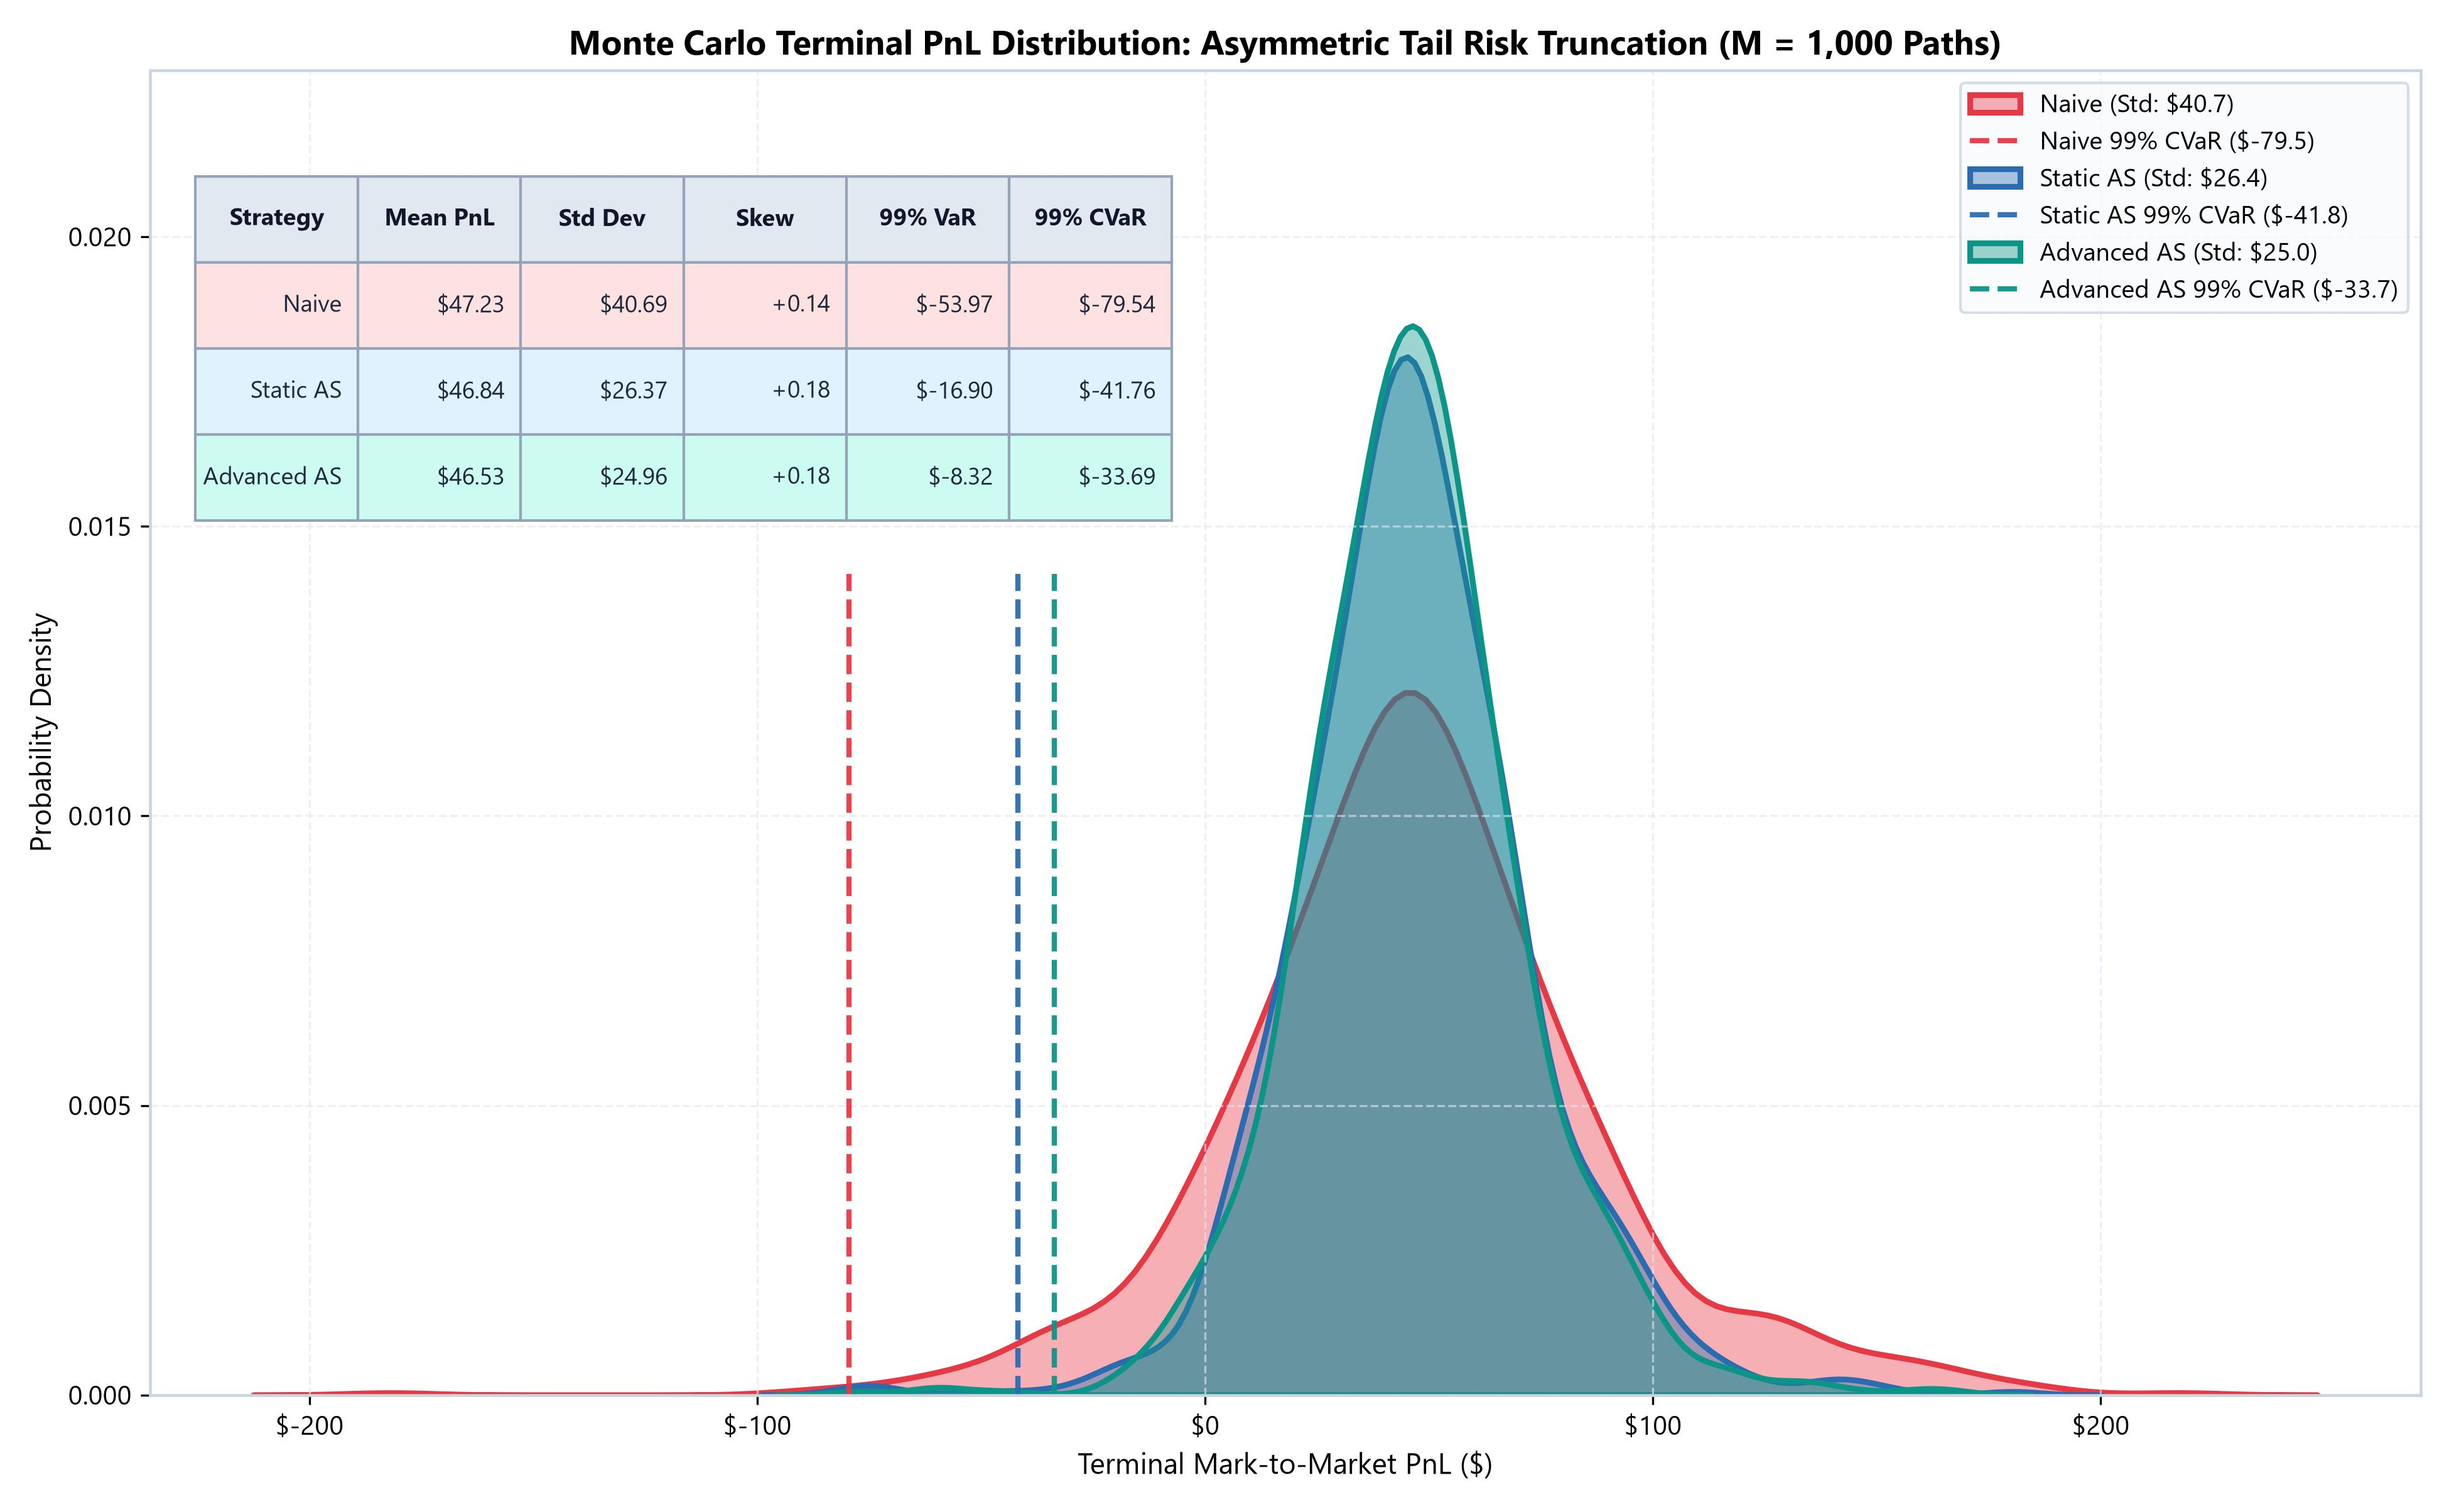
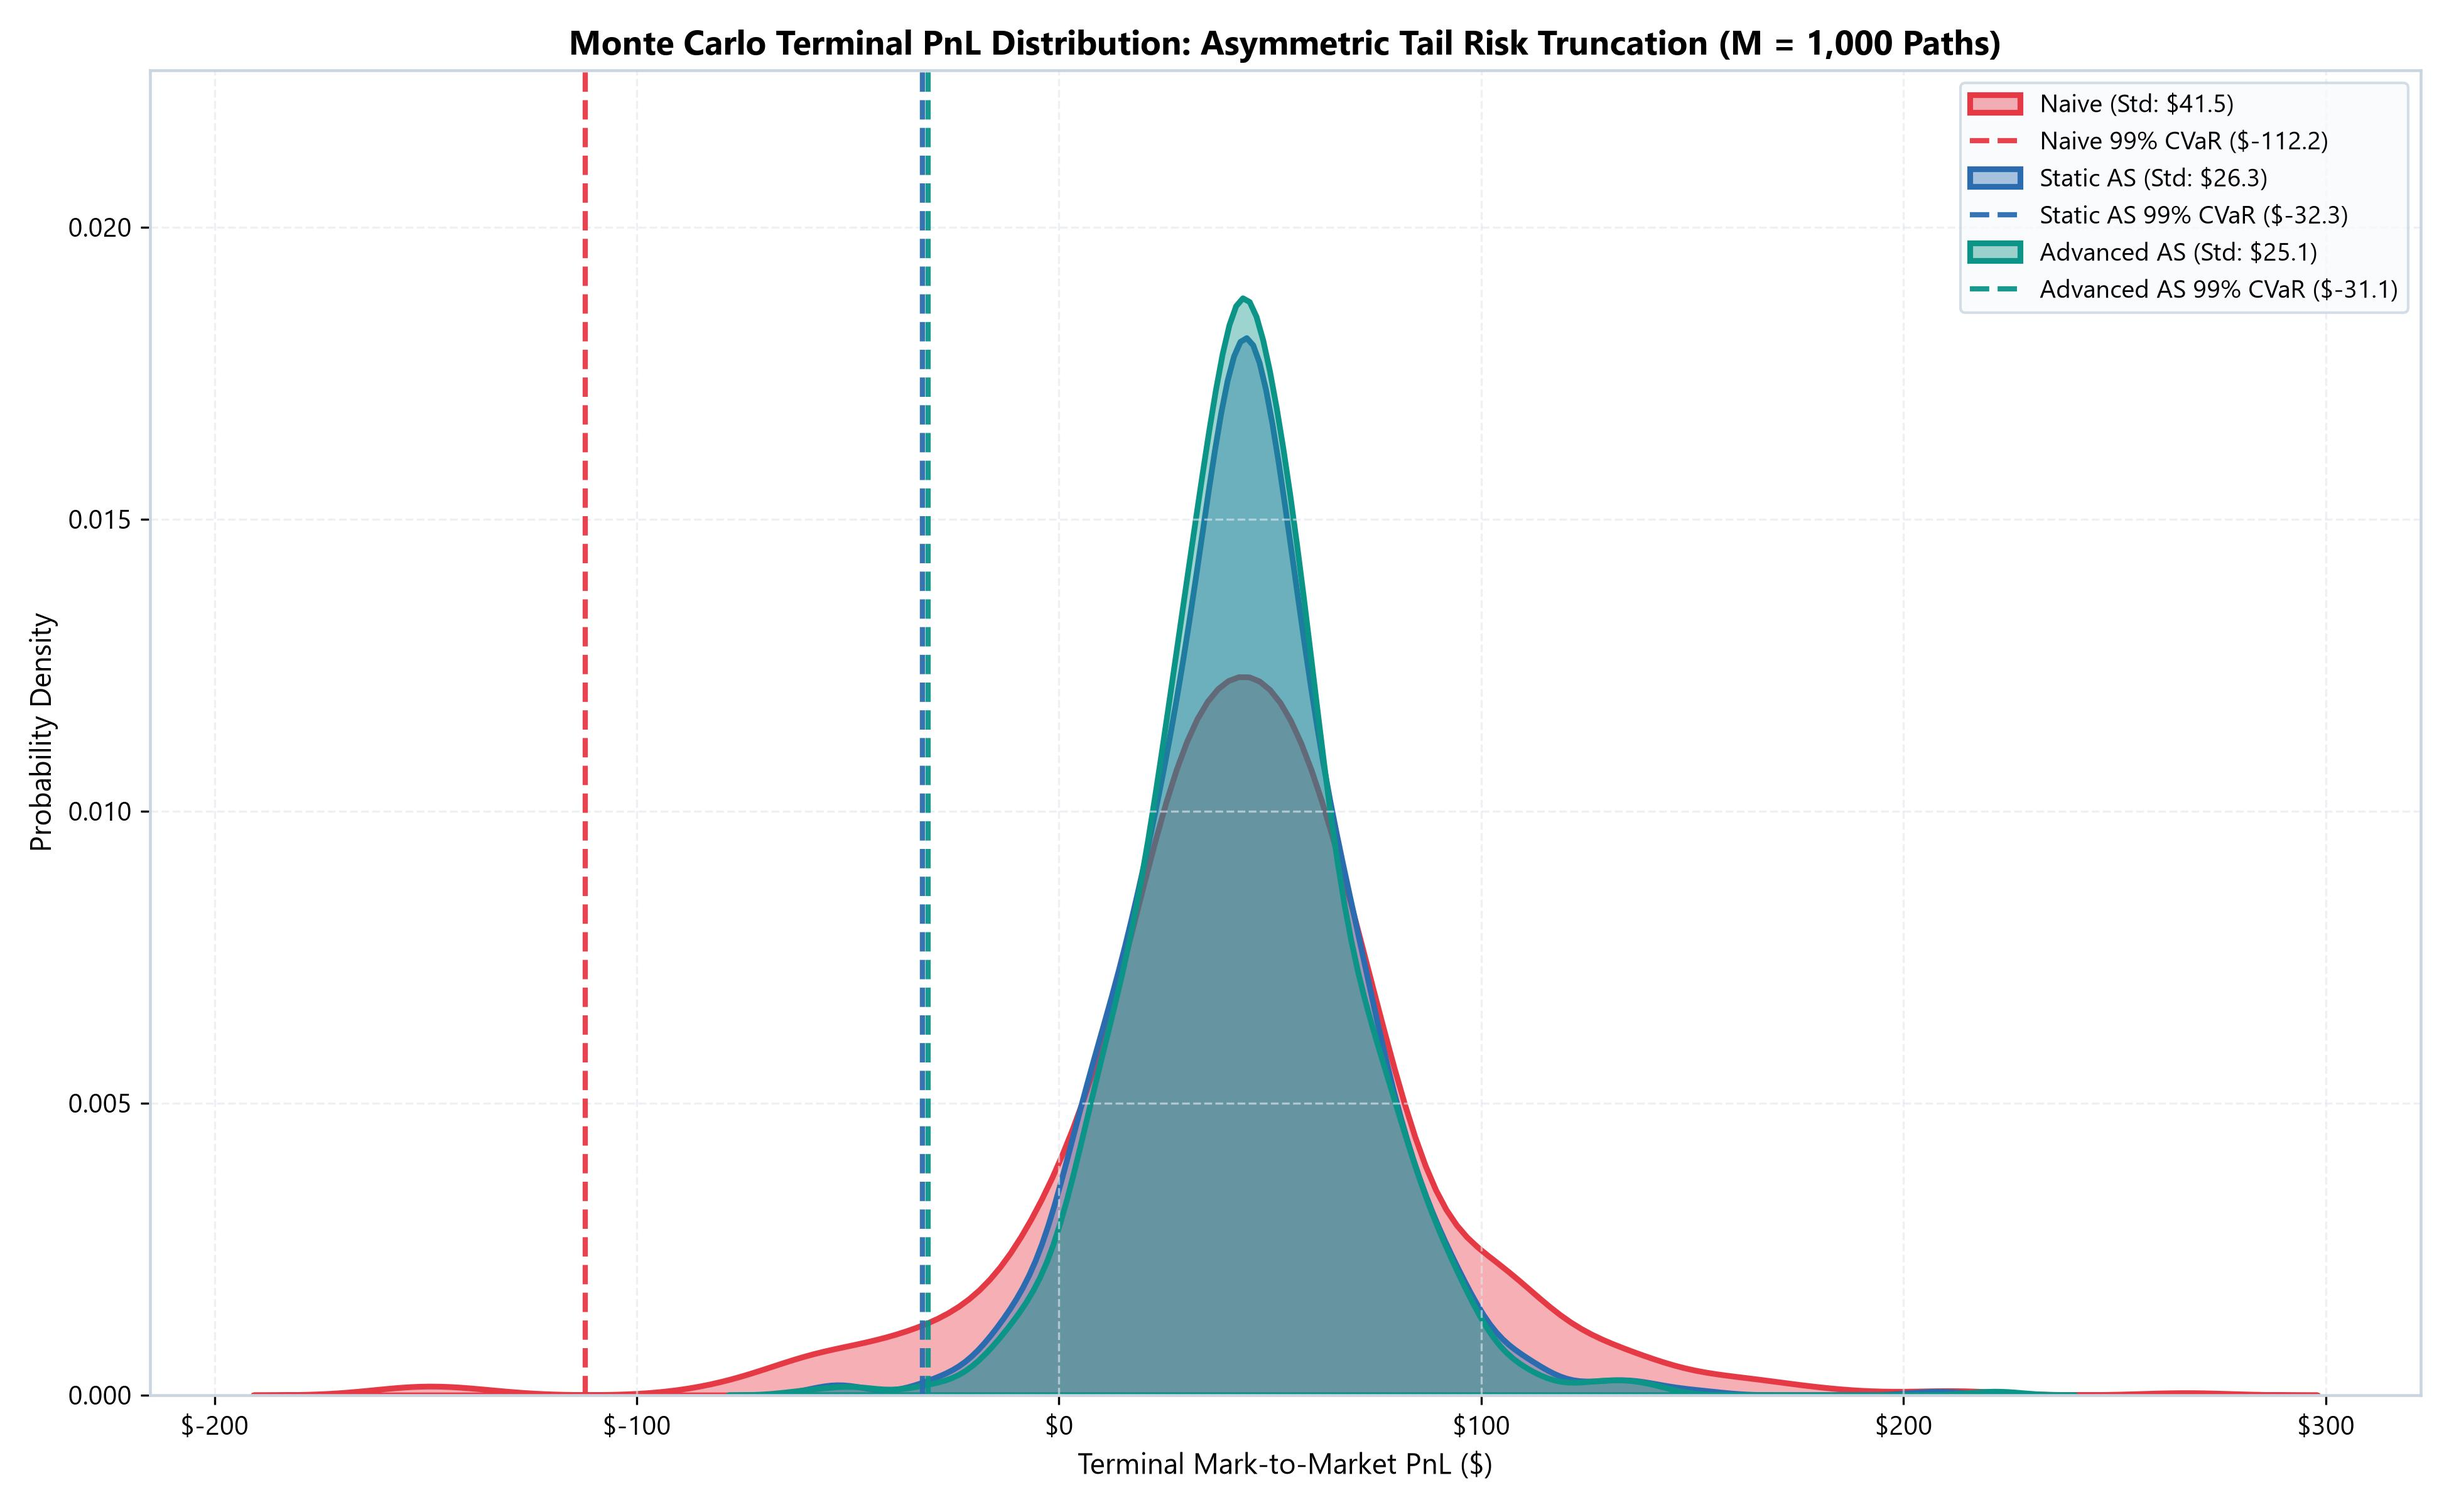
re-update of readme and removal of table in mc-graphic

diff --git a/src/visualization.py b/src/visualization.py
@@ -258,7 +258,6 @@ def plot_monte_carlo_distribution(
     - Kernel Density Estimation (KDE) plot showing distribution of Terminal PnL for Naive, AS Static, Advanced AS.
     - Distinct colors and alpha=0.4 fill area.
     - 99% Conditional VaR (CVaR) vertical lines for the three strategies.
-    - Comprehensive textbox table summarizing Mean PnL, Std Dev, 99% VaR, 99% CVaR.
     """
     os.makedirs(os.path.dirname(save_path), exist_ok=True)
     
@@ -287,12 +286,10 @@ def plot_monte_carlo_distribution(
             label=f"{s_name} (Std: ${mc_results[s_name]['std']:.1f})"
         )
         
-        # 99% CVaR vertical dashed line up to table boundary
+        # 99% CVaR vertical dashed line
         cvar_val = mc_results[s_name]["cvar_99"]
         ax.axvline(
             cvar_val,
-            ymin=0.0,
-            ymax=0.62,
             color=c,
             linestyle="--",
             linewidth=2.0,
@@ -306,55 +303,7 @@ def plot_monte_carlo_distribution(
     ax.grid(True, linestyle="--", alpha=0.6)
     ax.xaxis.set_major_formatter(plt.FuncFormatter(lambda x, loc: f"${x:,.0f}"))
     y_min, y_max = ax.get_ylim()
-    ax.set_ylim(0, y_max * 1.18)
-    
-    # Perfectly formatted risk profile table using ax.table (with Kurtosis column removed and width resized)
-    col_labels = ["Strategy", "Mean PnL", "Std Dev", "Skew", "99% VaR", "99% CVaR"]
-    cell_text = []
-    cell_colors = []
-    
-    row_bg_tints = {
-        "Naive": ["#FEE2E2"] * 6,
-        "Static AS": ["#E0F2FE"] * 6,
-        "Advanced AS": ["#CCFBF1"] * 6
-    }
-    
-    for s_name in strats:
-        st = mc_results[s_name]
-        sign_var = "+" if st['var_99'] > 0 else ""
-        sign_cvar = "+" if st['cvar_99'] > 0 else ""
-        cell_text.append([
-            s_name,
-            f"${st['mean']:,.2f}",
-            f"${st['std']:,.2f}",
-            f"{st.get('skewness', 0.0):+.2f}",
-            f"{sign_var}${st['var_99']:,.2f}",
-            f"{sign_cvar}${st['cvar_99']:,.2f}"
-        ])
-        cell_colors.append(row_bg_tints[s_name])
-        
-    the_table = ax.table(
-        cellText=cell_text,
-        colLabels=col_labels,
-        cellColours=cell_colors,
-        colColours=["#E2E8F0"] * 6,
-        loc="upper left",
-        bbox=[0.02, 0.66, 0.43, 0.26],
-        zorder=10
-    )
-    the_table.auto_set_font_size(False)
-    the_table.set_fontsize(9.0)
-    the_table.set_zorder(10)
-    
-    for (r, c), cell in the_table.get_celld().items():
-        cell.set_edgecolor("#94A3B8")
-        cell.set_linewidth(1.0)
-        cell.set_alpha(1.0)
-        cell.set_zorder(10)
-        if r == 0:
-            cell.set_text_props(weight="bold", color="#0F172A")
-        else:
-            cell.set_text_props(color="#1E293B")
+    ax.set_ylim(0, y_max * 1.15)
     
     ax.legend(loc="upper right", frameon=True, facecolor="#F8FAFC", edgecolor="#CBD5E1", fontsize=9.5)
     

diff --git a/README.md b/README.md
@@ -36,26 +36,6 @@ Opt_inv_management/
 └── README.md                                          # Quantitative documentation
 ```
 
-### 1.2 Problem Formulation & Theoretical Framework
-
-A high-frequency market maker earns the bid-ask spread by quoting limit orders on both sides of the book. However, holding unhedged positions exposes the dealer to **inventory risk** (adverse price drift while holding inventory).
-
-#### Asset Dynamics & Order Execution
-The reference mid-price follows an arithmetic Brownian motion on a filtered probability space:
-$$dS_t = \sigma dW_t$$
-
-Limit order fill rates follow Poisson point processes with intensities decaying exponentially with the quote distance $\delta$ from the mid-price:
-$$\lambda^a(\delta_t^a) = A e^{-k \delta_t^a}, \quad \lambda^b(\delta_t^b) = A e^{-k \delta_t^b}$$
-where $A$ is the baseline arrival rate, $k$ is the liquidity density, and $\delta^a, \delta^b$ are the distances of the ask and bid quotes from the mid-price.
-
-#### Stochastic Optimal Control (HJB Formulation)
-With cash $X_t$ and inventory $q_t$, the terminal wealth at horizon $T$ is $\Pi_T = X_T + q_T S_T$. Assuming Constant Absolute Risk Aversion (CARA) with risk coefficient $\gamma > 0$, the value function solves:
-$$\max_{(\delta_t^a, \delta_t^b)} \mathbb{E} \left[ -e^{-\gamma (X_T + q_T S_T)} \right]$$
-
-Applying dynamic programming yields the Hamilton-Jacobi-Bellman (HJB) equation:
-$$\partial_t V + \frac{1}{2}\sigma^2 \partial_{ss} V + \max_{\delta^a \ge 0} \{ \lambda^a(\delta^a)[V(x + s + \delta^a, q - 1, s, t) - V] \} + \max_{\delta^b \ge 0} \{ \lambda^b(\delta^b)[V(x - s + \delta^b, q + 1, s, t) - V] \} = 0$$
-subject to $V(x, q, s, T) = -\exp(-\gamma(x + qs))$.
-
 ---
 
 ## 2. Microstructural Realism & Matching Engine
@@ -96,14 +76,37 @@ Market makers cannot execute instantly at the touch. Limit orders must wait in l
 
 ## 3. Mathematical Framework & Metric Clarifications
 
-### 3.1 Clarification: Asymmetric Tail-Risk Truncation vs "Variance Reduction"
+### 3.1 Problem Formulation & Theoretical Framework (HJB)
+
+A high-frequency market maker earns the bid-ask spread by quoting limit orders on both sides of the book. However, holding unhedged positions exposes the dealer to **inventory risk** (adverse price drift while holding inventory).
+
+#### Asset Dynamics & Order Execution
+The reference mid-price follows an arithmetic Brownian motion on a filtered probability space:
+$$dS_t = \sigma dW_t$$
+
+Limit order fill rates follow Poisson point processes with intensities decaying exponentially with the quote distance $\delta$ from the mid-price:
+$$\lambda^a(\delta_t^a) = A e^{-k \delta_t^a}, \quad \lambda^b(\delta_t^b) = A e^{-k \delta_t^b}$$
+where $A$ is the baseline arrival rate, $k$ is the liquidity density, and $\delta^a, \delta^b$ are the distances of the ask and bid quotes from the mid-price.
+
+#### Stochastic Optimal Control (HJB Formulation)
+With cash $X_t$ and inventory $q_t$, the terminal wealth at horizon $T$ is $\Pi_T = X_T + q_T S_T$. Assuming Constant Absolute Risk Aversion (CARA) with risk coefficient $\gamma > 0$, the value function solves:
+$$\max_{(\delta_t^a, \delta_t^b)} \mathbb{E} \left[ -e^{-\gamma (X_T + q_T S_T)} \right]$$
+
+Applying dynamic programming yields the Hamilton-Jacobi-Bellman (HJB) equation:
+$$\partial_t V + \frac{1}{2}\sigma^2 \partial_{ss} V + \max_{\delta^a \ge 0} \{ \lambda^a(\delta^a)[V(x + s + \delta^a, q - 1, s, t) - V] \} + \max_{\delta^b \ge 0} \{ \lambda^b(\delta^b)[V(x - s + \delta^b, q + 1, s, t) - V] \} = 0$$
+subject to $V(x, q, s, T) = -\exp(-\gamma(x + qs))$.
+
+### 3.2 Clarification: Asymmetric Tail-Risk Truncation vs "Variance Reduction"
 The Avellaneda-Stoikov (AS) model does **not** collapse global PnL standard deviation to zero. In fact, active spread adjustment and quote skewing maintain global variance roughly constant (or slightly higher). 
 The core mathematical value of the AS model is **asymmetric tail-risk truncation**:
 - Shifting mean PnL into positive territory by capturing spread on both sides.
 - Truncating catastrophic left-tail drawdowns and fat-tail losses (slashing 99% CVaR / Expected Shortfall).
 - Reducing negative skewness.
 
-### 3.2 Avellaneda-Stoikov Pricing Equations
+### 3.3 Avellaneda-Stoikov Pricing Equations
+
+The practical Avellaneda-Stoikov pricing equations are directly derived via an asymptotic approximation of the Hamilton-Jacobi-Bellman (HJB) value function defined above (assuming small risk aversion $\gamma$). This elegantly translates the continuous-time stochastic optimal control problem into actionable, real-time bid-ask quotes.
+
 Under arithmetic Brownian motion $dS_t = \sigma dW_t$:
 - **Reservation Price**:
   $$r(s, q, t) = s_t - q_t \gamma \sigma^2 (T - t)$$
@@ -113,13 +116,13 @@ Under arithmetic Brownian motion $dS_t = \sigma dW_t$:
   $$p_t^a = r_t + \frac{\delta_t}{2}, \quad p_t^b = r_t - \frac{\delta_t}{2}$$
 When long ($q_t > 0$), $r_t < s_t$, posting the ask closer to mid to incentivize selling while moving the bid deeper into the book to avoid accumulating toxic inventory.
 
-### 3.3 Advanced Adaptive Strategy
+### 3.4 Advanced Adaptive Strategy
 1. **Continuous Rolling Volatility ($\sigma_t$)**: Real-time 5-minute rolling window tracking empirical dispersion:
    $$\sigma_t = \sqrt{\frac{1}{W} \sum_{i=0}^{W-1} (S_{t-i} - S_{t-i-1})^2}$$
 2. **Non-Linear Adaptive Penalty $\gamma(q_t)$**:
    $$\gamma(q_t) = \gamma_0 \left(1 + \eta \left(\frac{|q_t|}{q_{\max}}\right)^\alpha\right), \quad \alpha = 2.0, \; \eta = 4.0$$
 
-### 3.4 Binned Sharpe Ratio Formulation
+### 3.5 Binned Sharpe Ratio Formulation
 Tick-by-tick return variance collapses the denominator due to microsecond autocorrelation, falsely producing Sharpe ratios > 600.
 We compute returns sampled on **discrete 5-minute bins** ($288$ periods/day) over capital $C = \$100,000$, subtracting an annualized 4% risk-free rate:
 $$\text{Sharpe} = \frac{\mathbb{E}[R_{5\text{m}}] - \frac{r_f}{288 \times 365}}{\text{Std}(R_{5\text{m}})} \times \sqrt{288 \times 365}$$
